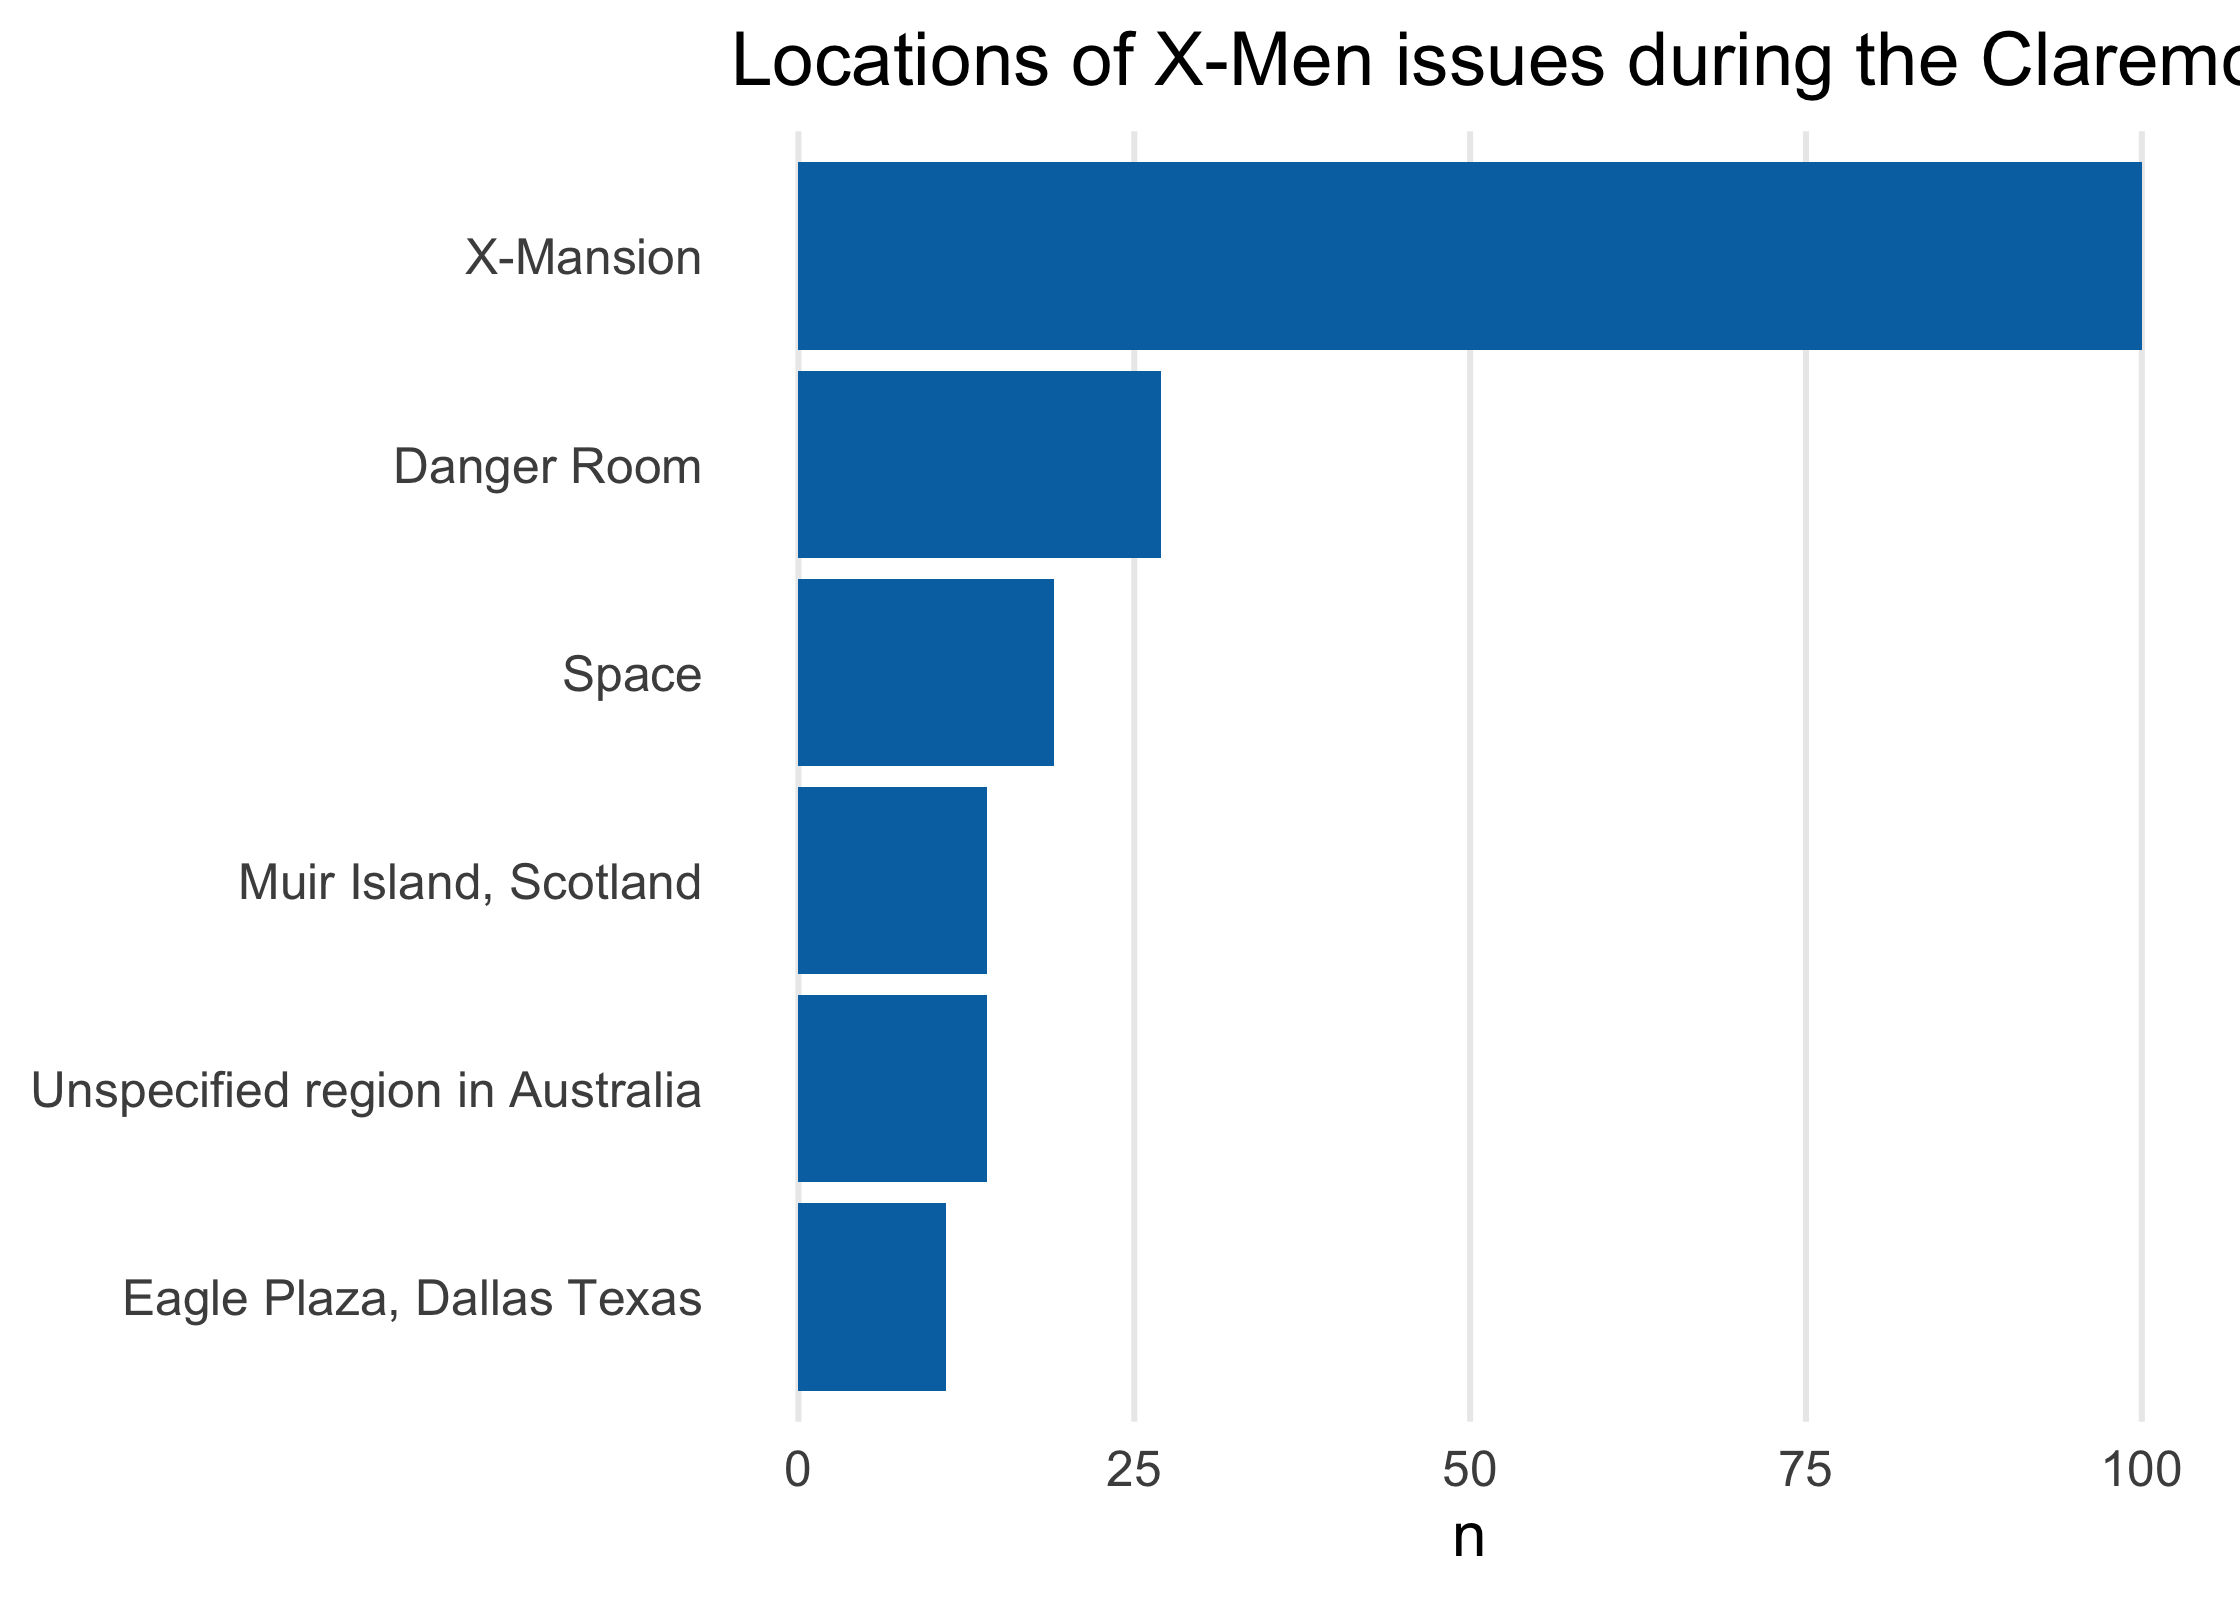
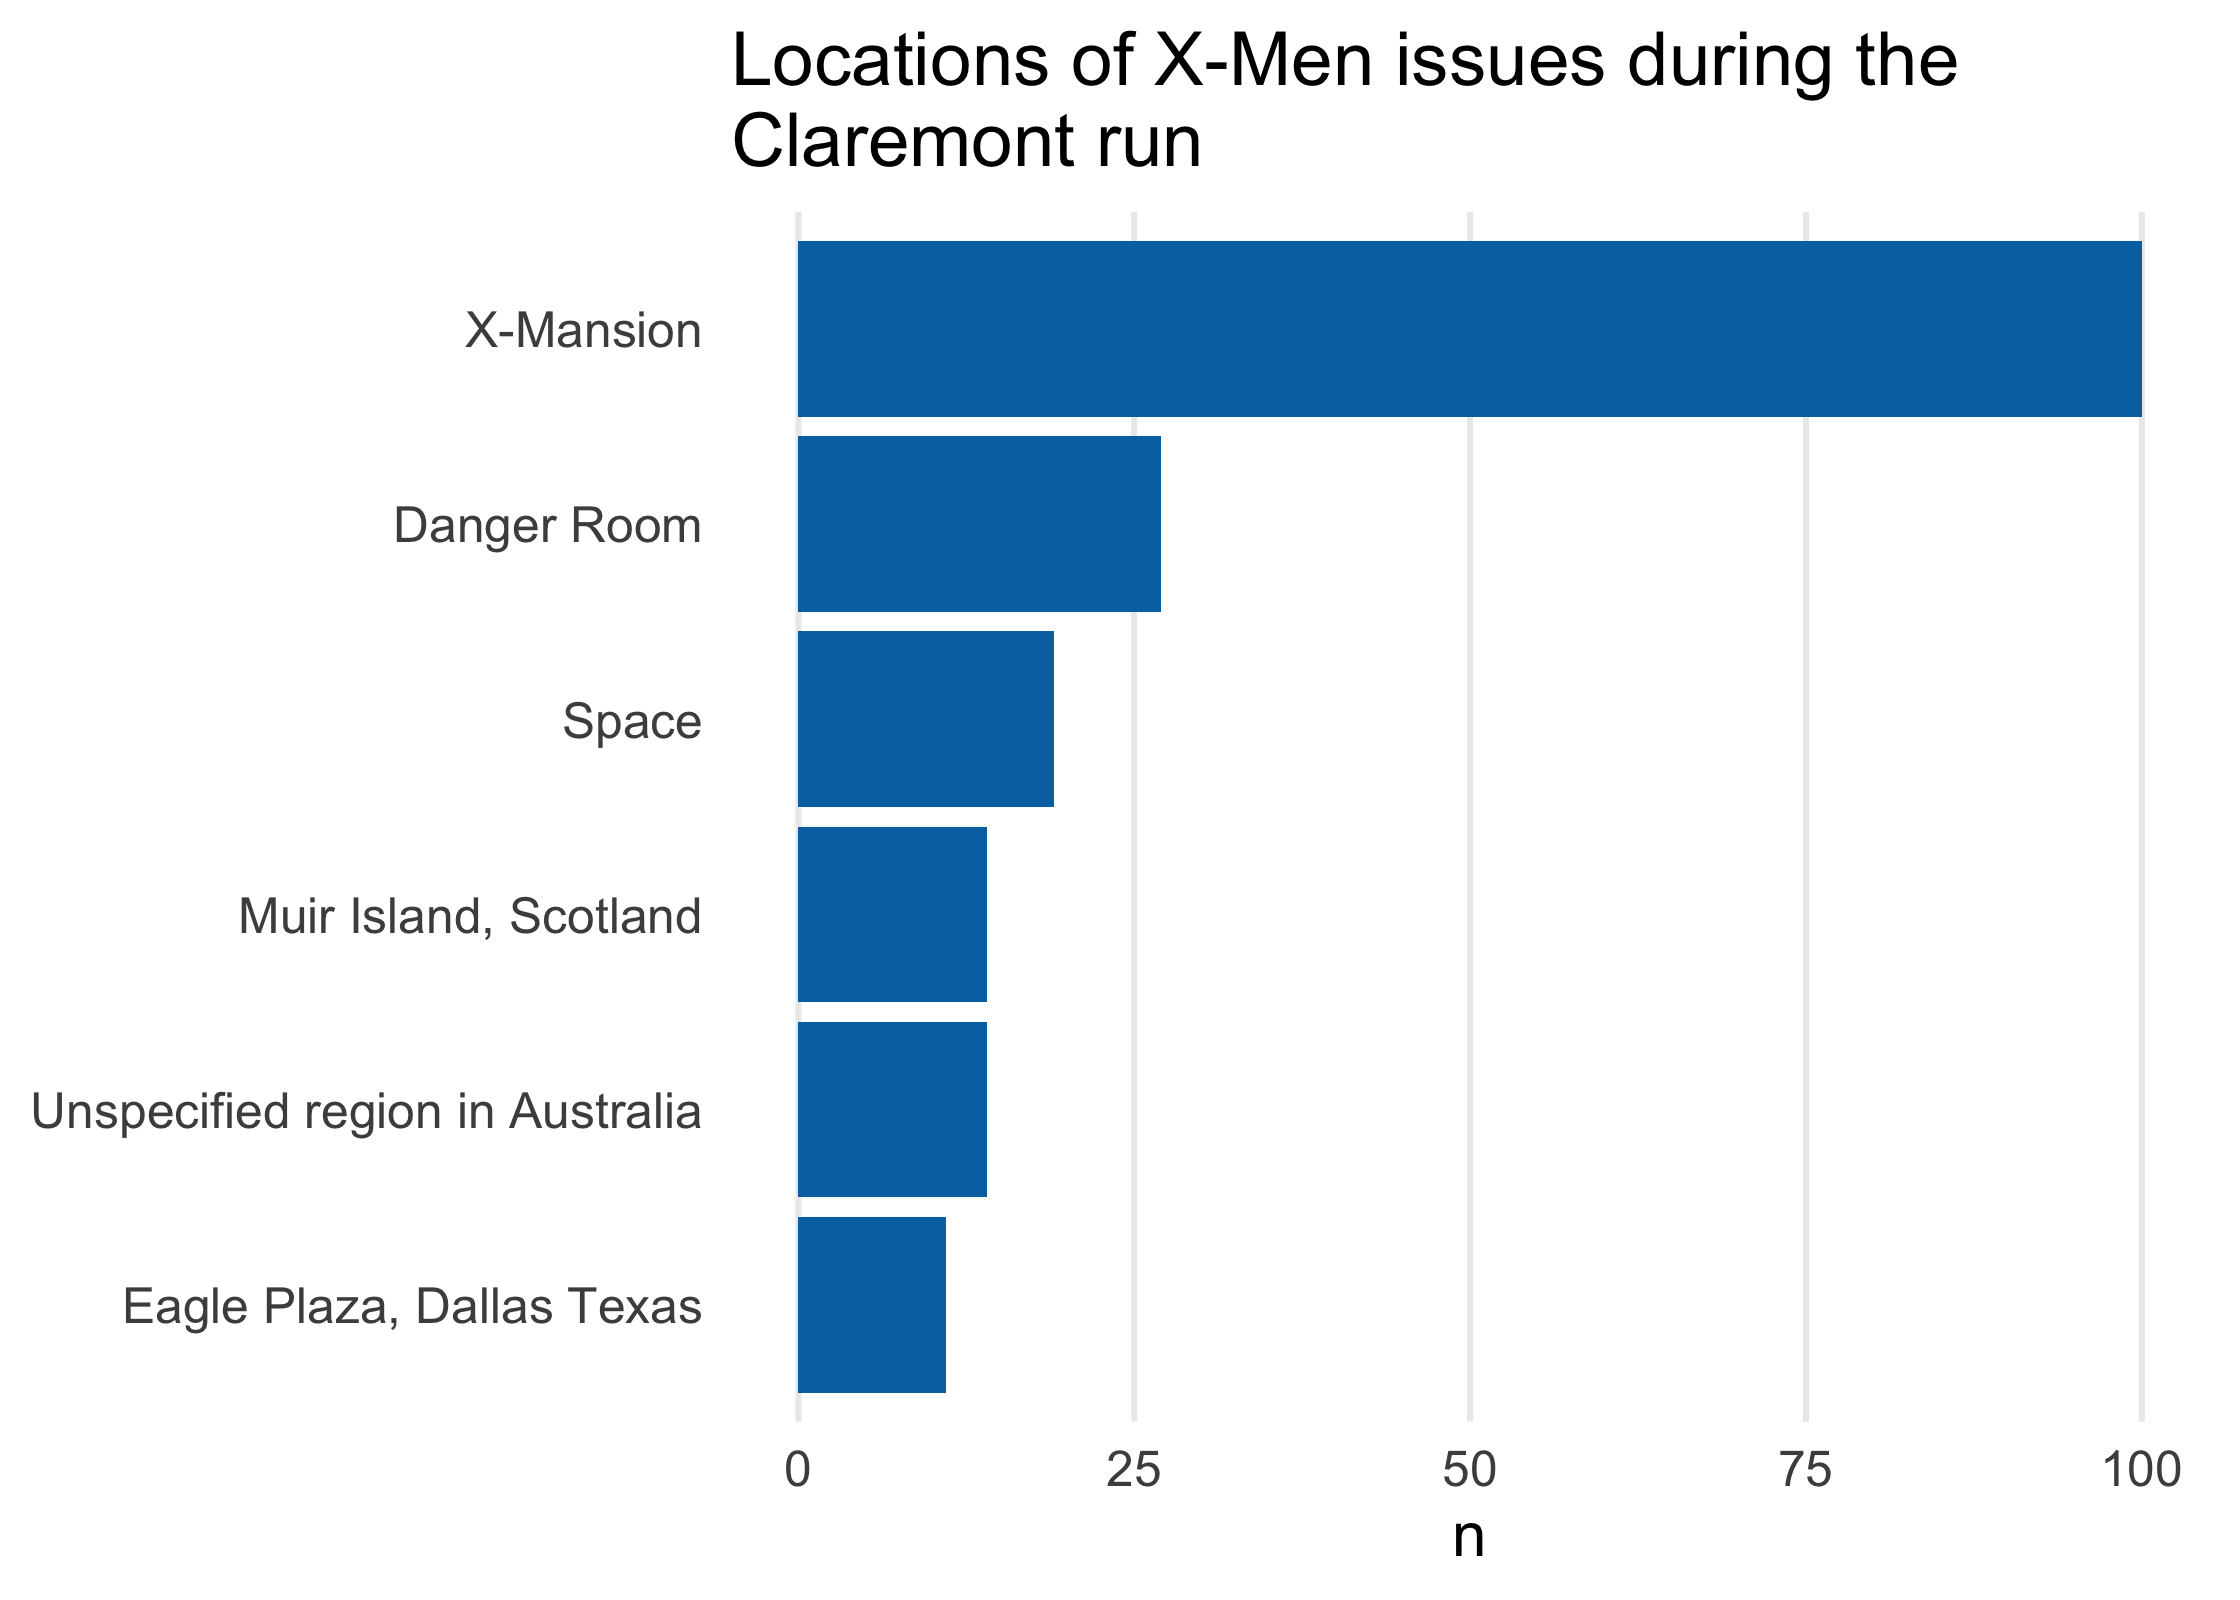
clean up readme

diff --git a/README.md b/README.md
@@ -69,7 +69,7 @@ locations %>%
     geom_col(fill = darkblue) +
     theme_minimal_vline() +
     theme(axis.title.y = element_blank()) +
-    ggtitle("Locations of X-Men issues during the Claremont run")
+    ggtitle("Locations of X-Men issues during the\nClaremont run")
 ```
 
 <img src="man/figures/README-unnamed-chunk-2-1.png" width="100%" />
